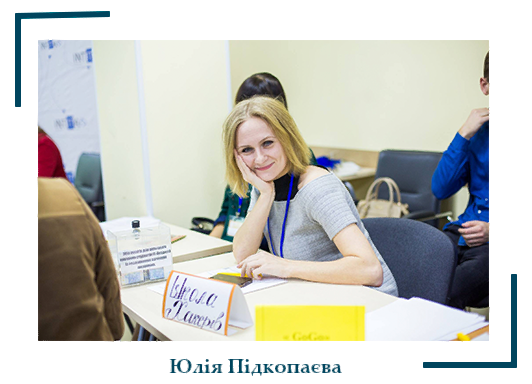
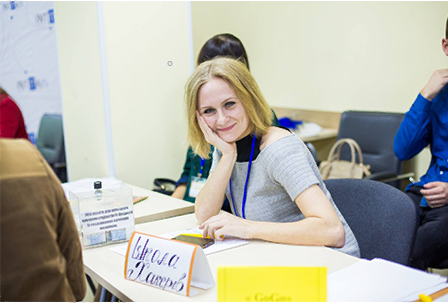
feedbacks-fix

diff --git a/public/css/style.css b/public/css/style.css
@@ -260,6 +260,41 @@ a{
     left: -20px;
     z-index: 22;
 }
+.active1 {
+    width: 300px;
+    height: 263px;
+    margin: 30px;
+    position: relative;
+}
+
+.active1::before{
+    content: "";
+    display: block;
+    height: 75px;
+    width: 75px;
+    border-right: 6px solid #0b2e13;
+    border-bottom: 6px solid #0b2e13;
+
+    position: absolute;
+    bottom: -20px;
+    right: -20px;
+    z-index: 22;
+}
+
+.active1::after{
+    content: "";
+    display: block;
+    height: 75px;
+    width: 75px;
+    border-left: 6px solid #0b2e13;
+    border-top: 6px solid #0b2e13;
+
+    position: absolute;
+    top: -20px;
+    left: -20px;
+    z-index: 22;
+}
+
 
 #gray{
     background-color: rgba(1, 1, 1, 0.75);

diff --git a/public/css/app.css b/public/css/app.css
@@ -1,6 +1,7 @@
 @import url(https://fonts.googleapis.com/css?family=Nunito);
 @charset "UTF-8";
 
+
 /*!
  * Bootstrap v4.4.1 (https://getbootstrap.com/)
  * Copyright 2011-2019 The Bootstrap Authors

diff --git a/resources/views/welcome.blade.php b/resources/views/welcome.blade.php
@@ -200,11 +200,16 @@
           @if($loop->odd)
 
                 <div class="row" id="row1">
-                  <div class="col-5 mr-auto">
-                      <img src="{{$feedback->img ?? 'https://intita.com/images/mainpage/intitaLogo.jpg'}}">
+                  <div class="active1">
+                      <img width="300" height="255" src="{{$feedback->img ?? 'https://intita.com/images/mainpage/intitaLogo.jpg' }}">
+
+                      <div class="col-1 m-auto">
+                  </div>
+                  <p><h2 style = "color:#7722aa">{{$feedback->author}}</h2></p>
                   </div>
                   <div class="col-4 m-auto">
                       <p class="descr" id="p1"><em>{{$feedback->describe}}</em></p>
+
                   </div>
               </div>
 
@@ -213,9 +218,15 @@
               <div class="row ">
                   <div class="col-4 m-auto">
                       <p class="descr" id="p1"><em>{{$feedback->describe}}</em></p>
+
                   </div>
                   <div class="col-5 ml-auto">
-                      <img src="{{$feedback->img ?? 'https://intita.com/images/mainpage/intitaLogo.jpg'}}">
+                      <div class="active1">
+                      <img width="300" height="255" src="{{$feedback->img ?? 'https://intita.com/images/mainpage/intitaLogo.jpg'}}">
+                      <div class="col-1 m-auto">
+                      </div>
+                            <p><h2 style = "color:#7722aa">{{$feedback->author}}</h2></p>
+                      </div>
                   </div>
               </div>
 

diff --git a/resources/views/feedback/index.blade.php b/resources/views/feedback/index.blade.php
@@ -10,6 +10,7 @@
             <div class="col-5 m-auto">
                 <img src="{{$feedback->img ?? 'https://intita.com/images/mainpage/intitaLogo.jpg'}}">
             </div>
+
             <div class="col-1 m-auto">
                 <p>{{$feedback->author}}</p>
             </div>
